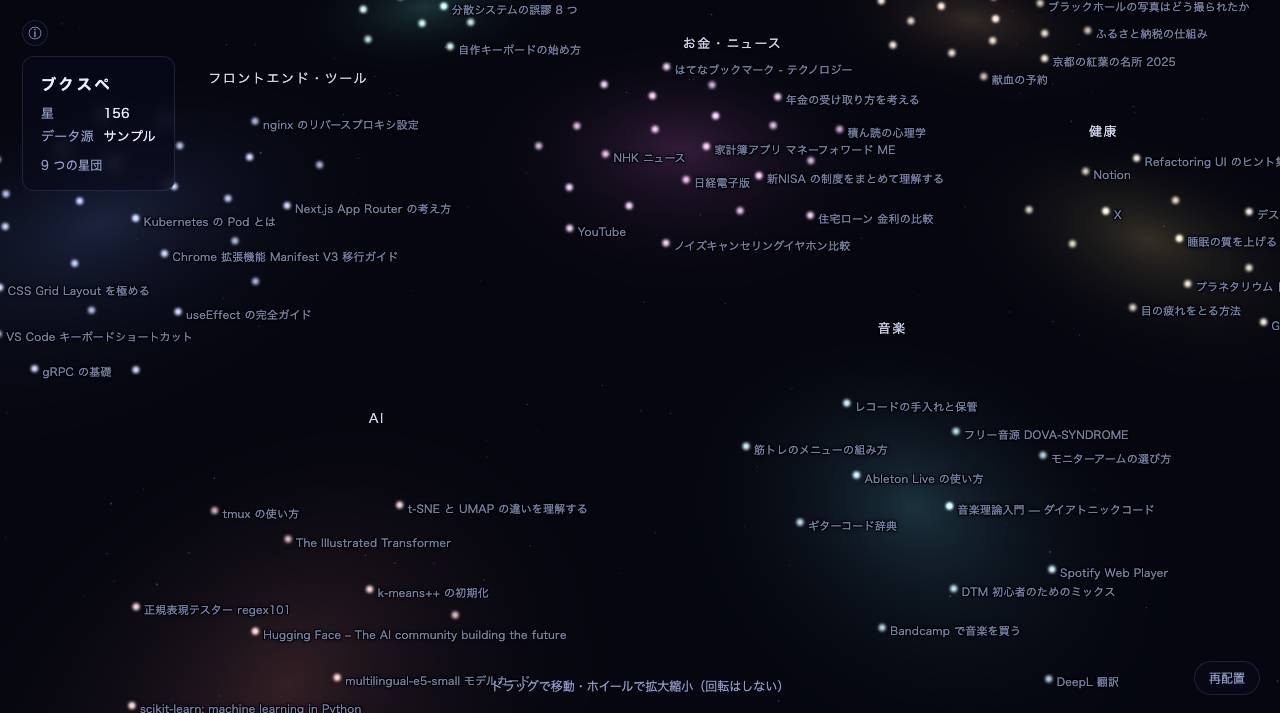
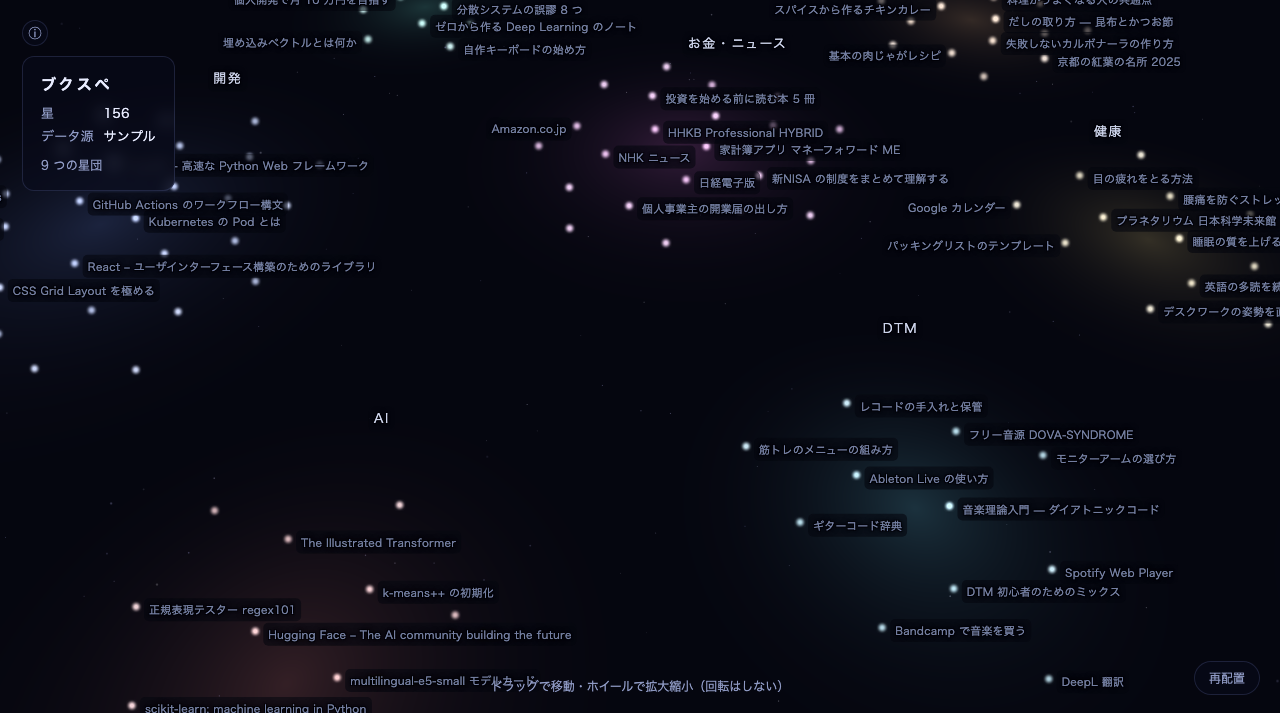
feat(m2): place titles on either side with a backdrop and name clusters by topic

diff --git a/src/layout/names.ts b/src/layout/names.ts
@@ -1,6 +1,15 @@
 import type { BookmarkItem } from "../bookmarks/types";
 import { domainOf } from "../bookmarks/types";
-import { hintsFor } from "../embed/domain-hints";
+import { DOMAIN_HINTS, hintsFor } from "../embed/domain-hints";
+
+/** 辞書に出てくる分野語の一覧。タイトルの中にこれが入っていれば数える。 */
+const HINT_VOCABULARY = [
+  ...new Set(Object.values(DOMAIN_HINTS).flatMap((v) => v.split(/\s+/).filter(Boolean))),
+].sort((a, b) => b.length - a.length || (a < b ? -1 : 1));
+
+/** 代表の数（螺旋の内側）。この中で分野語が揃えば、それを星団の名前にする。 */
+const LEADERS = 4;
+const LEADER_AGREE = 2;
 
 /** 分野を表さないフォルダ名。星団の名前には使わない。 */
 const IGNORED_FOLDERS = new Set([
@@ -26,9 +35,15 @@ function tally(values: string[]): Tally[] {
 const folderTally = (members: BookmarkItem[]): Tally[] =>
   tally(members.map((m) => m.folderPath.at(-1) ?? "").filter((f) => !IGNORED_FOLDERS.has(f)));
 
-/** 分野の語（ドメイン辞書）の集計。フォルダで決まらないときに使う。 */
-const hintTally = (members: BookmarkItem[]): Tally[] =>
-  tally(members.flatMap((m) => hintsFor(domainOf(m.url)).split(/\s+/).filter(Boolean)));
+/** そのブックマークが持つ分野語。ドメイン辞書と、タイトルに含まれる語の両方から。 */
+function hintsOf(item: BookmarkItem): string[] {
+  const fromDomain = hintsFor(domainOf(item.url)).split(/\s+/).filter(Boolean);
+  const fromTitle = HINT_VOCABULARY.filter((w) => w.length >= 2 && item.title.includes(w));
+  return [...new Set([...fromDomain, ...fromTitle])];
+}
+
+/** 分野の語の集計。フォルダで決まらないときに使う。 */
+const hintTally = (members: BookmarkItem[]): Tally[] => tally(members.flatMap(hintsOf));
 
 /**
  * 星団の名前（SPEC 7 章 ＋ 調整）。
@@ -39,6 +54,12 @@ const hintTally = (members: BookmarkItem[]): Tally[] =>
 export function clusterNames(groups: BookmarkItem[][]): string[] {
   const names = groups.map((members, index) => {
     if (members.length === 0) return `無名の星団 ${index + 1}`;
+
+    // 代表 4 件のうち 2 件以上が同じ分野語を持つなら、フォルダの多数決より優先する
+    const leaders = members.slice(0, LEADERS);
+    const shared = tally(leaders.flatMap(hintsOf)).filter((h) => h.n >= LEADER_AGREE);
+    if (shared[0]) return shared[0].key;
+
     const folders = folderTally(members);
     const [top, second] = folders;
 

diff --git a/src/ui/labels.ts b/src/ui/labels.ts
@@ -19,8 +19,8 @@ const FONT = { cluster: 13, star: 11 } as const;
 
 /** 星から右へどれだけ離すか。 */
 const OFFSET_X = 8;
-/** 星そのものを避けるための当たり判定の半径。 */
-const STAR_RADIUS = 4;
+/** 下地の左右の余白（CSS の padding と合わせる）。 */
+const PADDING_X = 5;
 
 /** 中距離で省略する長さ（全角を 1、半角を 0.5 として数える）。 */
 const MID_WIDTH = 18;
@@ -53,13 +53,7 @@ export class LabelLayer {
     container.addEventListener("mouseout", this.onOut);
   }
 
-  render(items: PlacedLabel[], starPoints: { sx: number; sy: number }[], tier: ZoomTier): number {
-    const taken: Box[] = starPoints.map((p) => ({
-      l: p.sx - STAR_RADIUS,
-      t: p.sy - STAR_RADIUS,
-      r: p.sx + STAR_RADIUS,
-      b: p.sy + STAR_RADIUS,
-    }));
+  render(items: PlacedLabel[], tier: ZoomTier): number {
     const labelBoxes: Box[] = [];
     const shown: { item: PlacedLabel; text: string; box: Box }[] = [];
 
@@ -73,16 +67,23 @@ export class LabelLayer {
           : full;
 
       const size = FONT[item.kind];
-      const w = this.textWidth(shortened, size);
+      const w = this.textWidth(shortened, size) + PADDING_X * 2;
       const h = size + 6;
-      const box =
-        item.kind === "cluster" && tier === "far"
-          ? { l: item.sx - w / 2, t: item.sy - h / 2, r: item.sx + w / 2, b: item.sy + h / 2 }
-          : { l: item.sx + OFFSET_X, t: item.sy - h / 2, r: item.sx + OFFSET_X + w, b: item.sy + h / 2 };
+      const t = item.sy - h / 2;
 
-      if (labelBoxes.some((p) => overlaps(p, box))) continue;
-      // 星団名は星の上を通ってよい（星雲の中心に置くため）
-      if (item.kind === "star" && taken.some((p) => overlaps(p, box))) continue;
+      // 星団名は遠くでは星雲の中心に重ねる
+      const candidates: Box[] =
+        item.kind === "cluster" && tier === "far"
+          ? [{ l: item.sx - w / 2, t, r: item.sx + w / 2, b: t + h }]
+          : [
+              // 右横に置けなければ左横へ
+              { l: item.sx + OFFSET_X, t, r: item.sx + OFFSET_X + w, b: t + h },
+              { l: item.sx - OFFSET_X - w, t, r: item.sx - OFFSET_X, b: t + h },
+            ];
+
+      // 重なりを禁じるのはタイトル同士だけ。星の上に重なるのは下地で読ませる
+      const box = candidates.find((c) => !labelBoxes.some((p) => overlaps(p, c)));
+      if (!box) continue;
 
       labelBoxes.push(box);
       shown.push({ item, text: shortened, box });

diff --git a/src/layout/index.ts b/src/layout/index.ts
@@ -26,6 +26,10 @@ export const CLUSTER_GAP = SPACING * 3.2;
  */
 export const GENERALITY_PENALTY = 0.3;
 
+/** 代表の候補から外す条件。短すぎるタイトルと、誰とでも似すぎているもの。 */
+export const LEAD_MIN_TITLE = 4;
+export const LEAD_MAX_GENERALITY = 1.5;
+
 export type StarRecord = {
   id: string;
   x: number;
@@ -90,9 +94,10 @@ export function computeLayout(
   // 3. 星団の中の星を螺旋に置く
   const stars: StarRecord[] = [];
   const clusters: ClusterRecord[] = [];
-  const names = clusterNames(groups.map((g) => g.map((i) => usable[i])));
+  const orderedByCluster = groups.map((memberIdx, c) => orderMembers(memberIdx, c));
+  const names = clusterNames(orderedByCluster.map((g) => g.map((i) => usable[i])));
 
-  groups.forEach((memberIdx, c) => {
+  function orderMembers(memberIdx: number[], c: number): number[] {
     // 代表らしい順。誰とでも似ているものは内側に来ないようにする
     const score = (i: number) => {
       const own = dot(centered[i], centroids[c]);
@@ -102,15 +107,20 @@ export function computeLayout(
         second = Math.max(second, dot(centered[i], centroids[o]));
       }
       if (second === -Infinity) second = 0;
-      return own - second - GENERALITY_PENALTY * generality[i];
+      // 「X」のような短いタイトルや、誰とでも似ているものは代表にしない
+      const excluded =
+        usable[i].title.trim().length < LEAD_MIN_TITLE || generality[i] > LEAD_MAX_GENERALITY;
+      return own - second - GENERALITY_PENALTY * generality[i] - (excluded ? 1000 : 0);
     };
     const scores = new Map(memberIdx.map((i) => [i, score(i)]));
-    const ordered = [...memberIdx].sort((a, b) => {
+    return [...memberIdx].sort((a, b) => {
       const d = (scores.get(b) as number) - (scores.get(a) as number);
       if (Math.abs(d) > 1e-9) return d;
       return usable[a].id < usable[b].id ? -1 : 1;   // 同点は id で決める
     });
+  }
 
+  orderedByCluster.forEach((ordered, c) => {
     ordered.forEach((idx, rank) => {
       const p = spiralPoint(rank, SPACING);
       const j = jitterOf(usable[idx].id, SPACING);

diff --git a/src/render/scene.ts b/src/render/scene.ts
@@ -226,18 +226,17 @@ export class SpaceView {
       });
     }
 
-    // 星の位置は、ラベルが星の上に重ならないようにするためにも使う
-    const starPoints: { sx: number; sy: number }[] = [];
     const limit = tier === "mid" ? 4 : Infinity;
-    for (const s of this.labelSource.stars) {
-      const at = project(s.x, s.y);
-      if (!at) continue;
-      starPoints.push(at);
-      if (tier === "far" || s.rank >= limit) continue;
-      items.push({ key: s.id, text: s.title, sx: at.sx, sy: at.sy, kind: "star", priority: s.rank });
+    if (tier !== "far") {
+      for (const s of this.labelSource.stars) {
+        if (s.rank >= limit) continue;
+        const at = project(s.x, s.y);
+        if (!at) continue;
+        items.push({ key: s.id, text: s.title, sx: at.sx, sy: at.sy, kind: "star", priority: s.rank });
+      }
     }
 
-    this.labels.render(items, starPoints, tier);
+    this.labels.render(items, tier);
   }
 
   private readonly resize = (): void => {

diff --git a/src/embed/domain-hints.ts b/src/embed/domain-hints.ts
@@ -112,6 +112,8 @@ export const DOMAIN_HINTS: Record<string, string> = {
   "jaxa.jp": "宇宙 科学 研究",
   "nasa.gov": "宇宙 科学 研究",
   "apod.nasa.gov": "宇宙 天体 写真",
+  "stellarium.org": "宇宙 星空 天文",
+  "spaceweather.com": "宇宙 天体 観測",
   "sorae.info": "宇宙 科学 ニュース",
   "nao.ac.jp": "天文 宇宙 研究",
   "subarutelescope.org": "天文 宇宙 望遠鏡",

diff --git a/index.html b/index.html
@@ -105,7 +105,9 @@
         position: absolute;
         top: 0;
         left: 0;
-        padding: 3px 0;
+        padding: 3px 5px;
+        border-radius: 5px;
+        background: rgba(5, 6, 15, 0.6);
         white-space: nowrap;
         pointer-events: none;
         text-shadow:

diff --git a/docs/PLAN.md b/docs/PLAN.md
@@ -164,9 +164,13 @@ M1 の項目に加えて、次を自動で確かめる。
 - 左上のパネルは「ⓘ」で開閉。`?demo=1` では丸ごと隠す。
 - サンプルに宇宙関係を 6 件追加（ニュース / 旅行 / あとで読む / デザイン / ルート に分散）。
 
-**未解決**：中距離でタイトルがほとんど間引かれる（星団の中心付近は星が密で、
-ラベルの帯がどれかの星に必ず当たるため）。星の当たり判定を 7px → 4px に縮めても変わらない。
-判断が要る：暗い星の上は許すか、右が塞がっていたら左に出すか、もっと短く省略するか。
+**解決済み（3 回目の調整）**：中距離でタイトルが間引かれる件は、
+右が塞がっていたら左横に出し、星の上に重なるのは許して半透明の暗い下地（不透明度 60%・角丸）で
+読ませる形にした。重なりを禁じるのはタイトル同士だけ。
+
+- 代表の候補から、タイトルが 3 文字以下のものと、汎用度が 1.5 を超えるものを外した（「X」が消えた）。
+- 星団の名前は、代表 4 件のうち 2 件以上が同じ分野語（ドメイン辞書＋タイトルに含まれる語）を
+  持つ場合、フォルダの多数決より優先する。宇宙関係の星団が「宇宙」と名付くことを確認した。
 
 ### M2 で分かったこと
 
